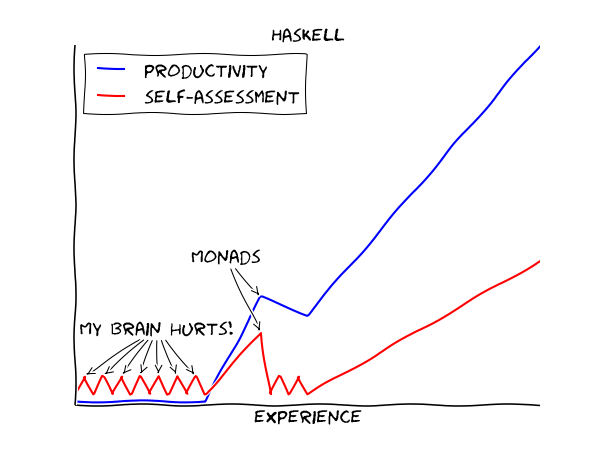
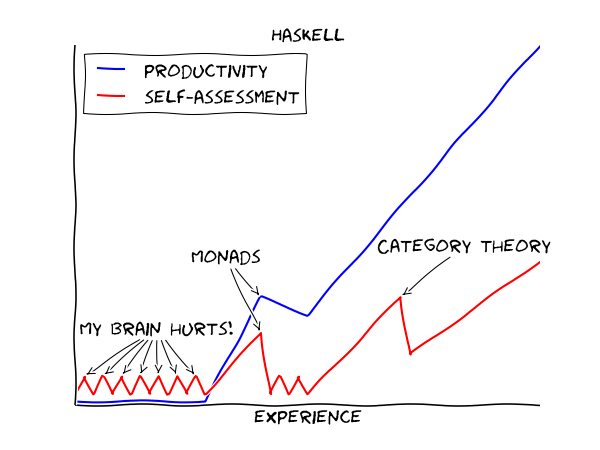
category theory

diff --git a/programming_language_learning_curves/generate.py b/programming_language_learning_curves/generate.py
@@ -143,10 +143,12 @@ def haskell():
   annotate('Monads', (25, 40), (40, 20))
   annotate('Monads', (25, 40), (40, 30))
 
+  annotate('Category theory', (65, 43), (70, 30))
+
   x1 = [ 0,  5, 28, 40, 50, 100]
   y1 = [ 1, 1, 1, 30, 25, 100]
-  x2 = [0, 2, 4, 6, 8,10,12,14,16,18,20,22,24,26,28, 40,42,44,46,48,50, 100]
-  y2 = [3, 8, 3, 8, 3, 8, 3, 8, 3, 8, 3, 8, 3, 8, 3, 20, 3, 8, 3, 8, 3, 40]
+  x2 = [0, 2, 4, 6, 8,10,12,14,16,18,20,22,24,26,28, 40,42,44,46,48,50, 70, 72, 100]
+  y2 = [3, 8, 3, 8, 3, 8, 3, 8, 3, 8, 3, 8, 3, 8, 3, 20, 3, 8, 3, 8, 3, 30, 14, 40]
 
   plt.plot(x1, y1, label='productivity')
   plt.plot(x2, y2, label='self-assessment')
